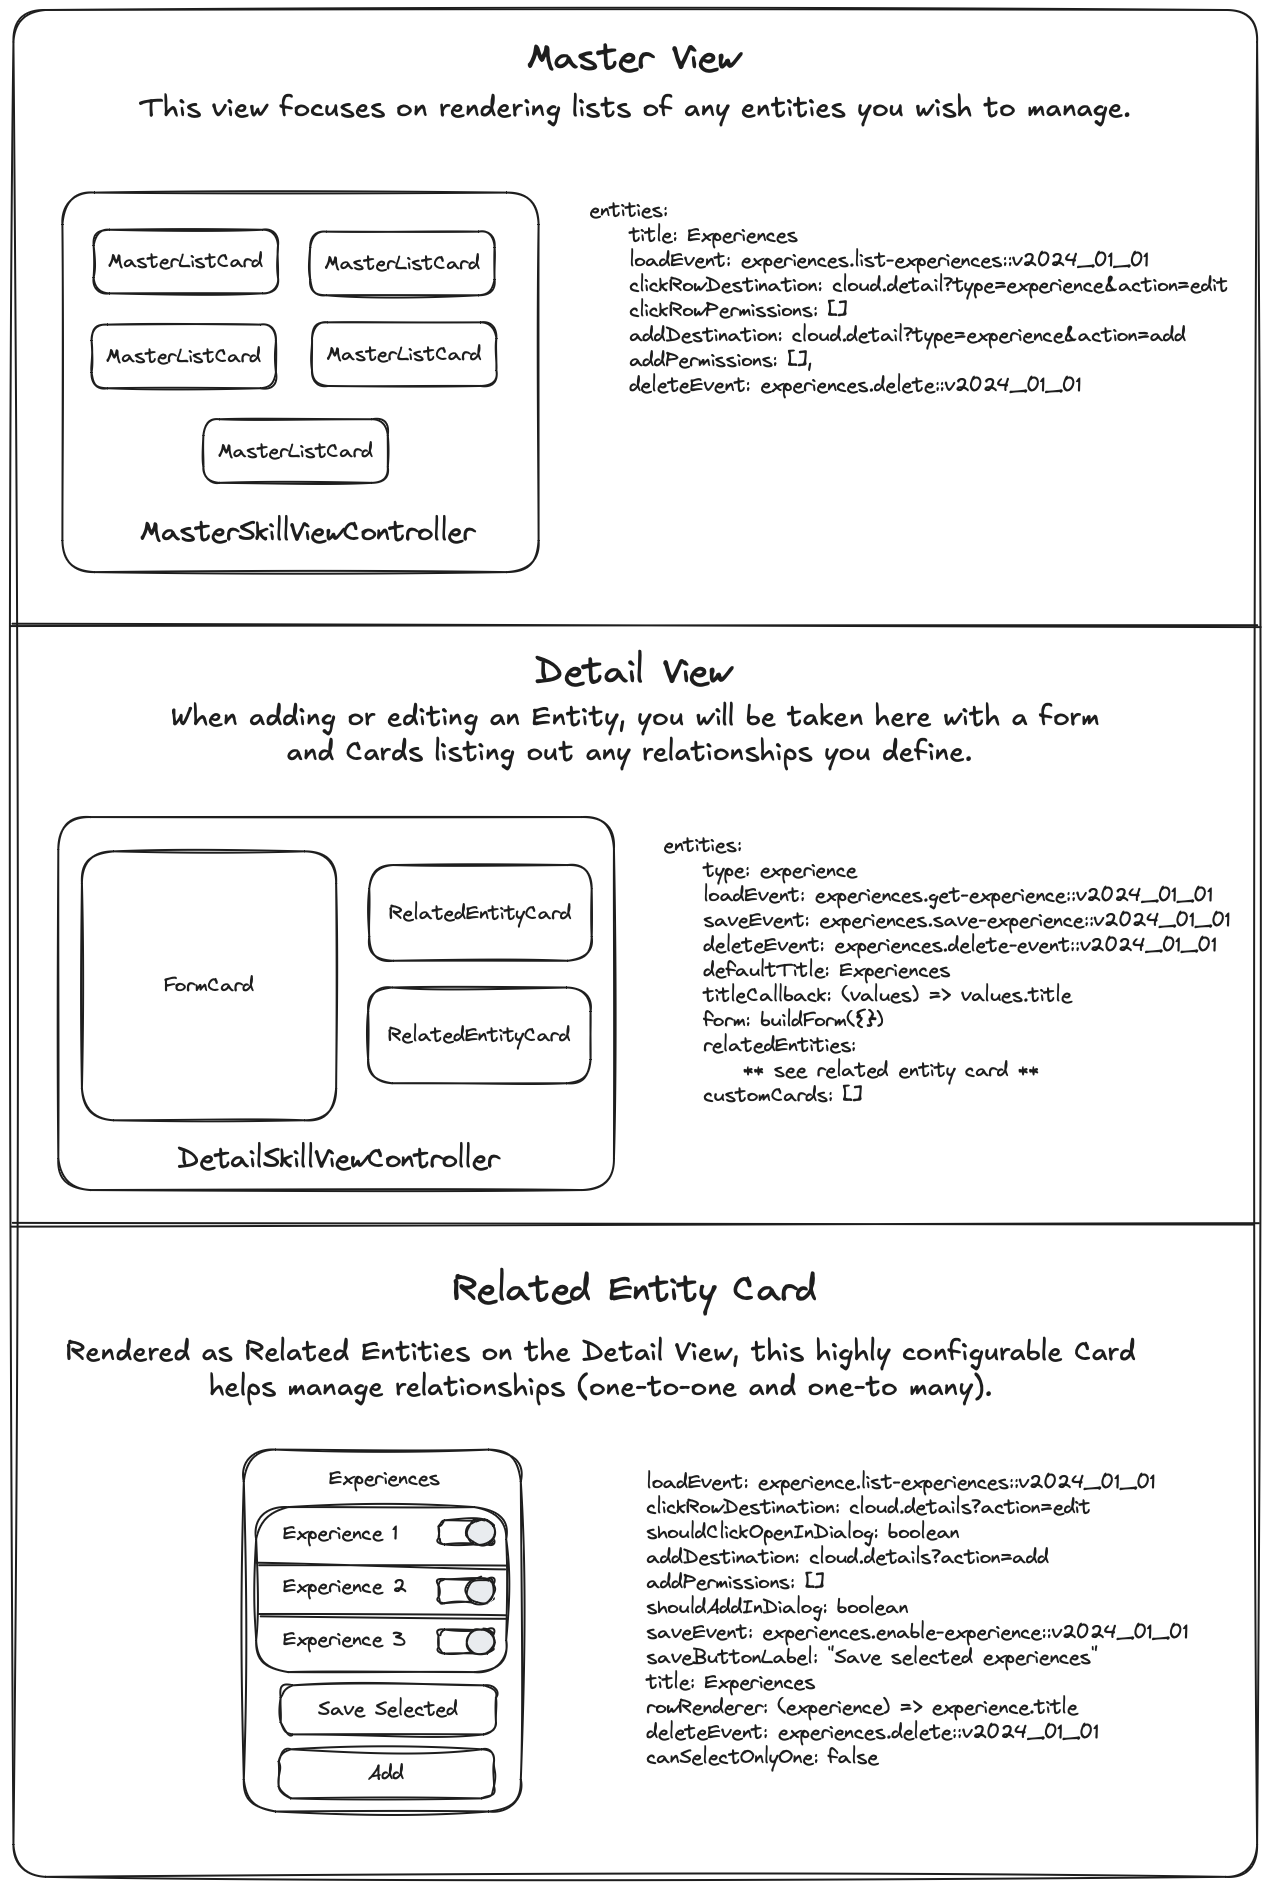
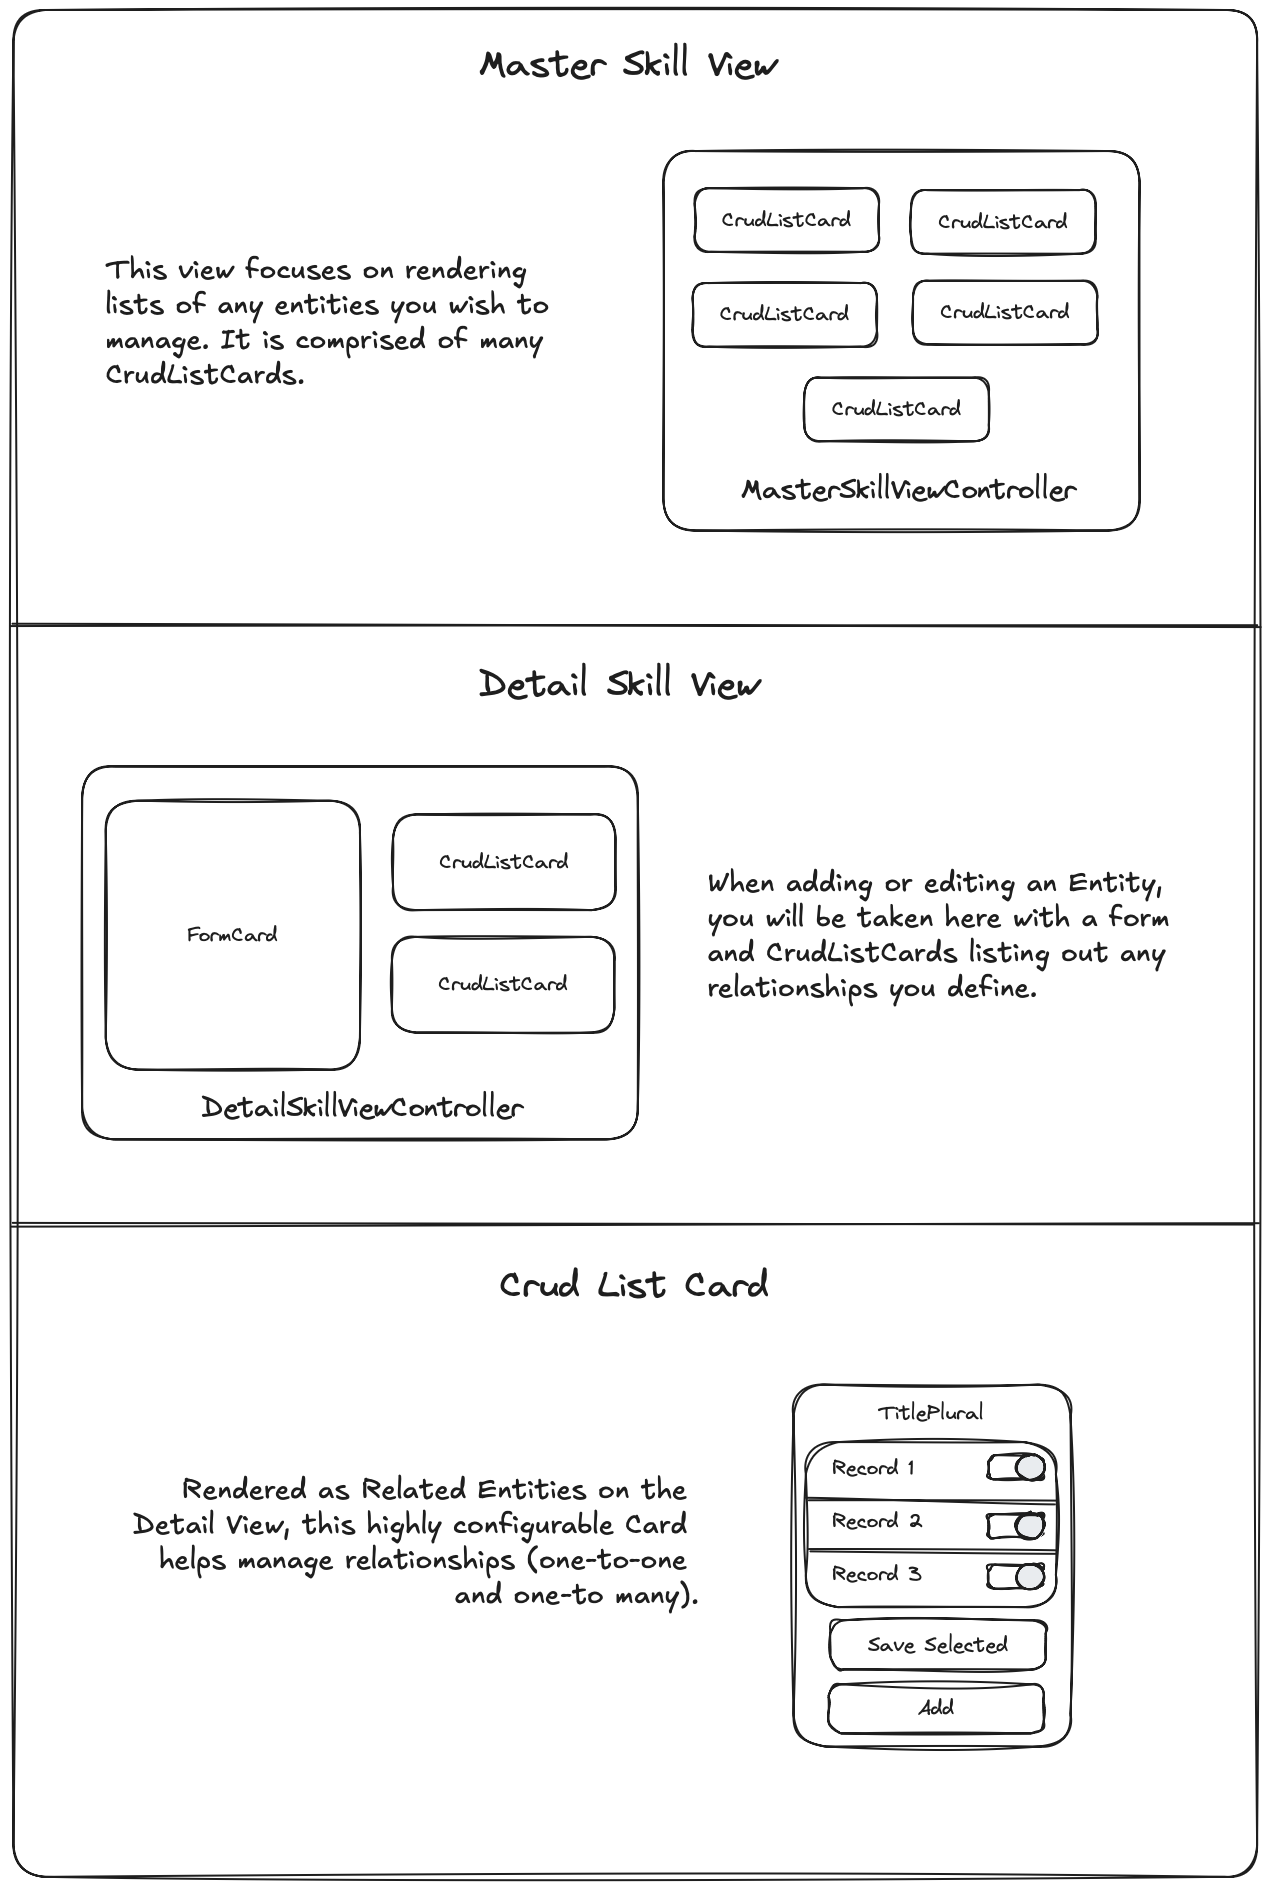
patch: restructure

diff --git a/src/pages/concepts/views/views.md b/src/pages/concepts/views/views.md
@@ -2,11 +2,11 @@
 
 `Views` are the building blocks of the front-end experience in Spruce. Every `Skill` can register `Skill Views` that are comprised of `CardViewControllers`. By default, the a skill's `RootSkillViewController` is the first view that is rendered. 
 
-<img style="margin:0 auto; display:block;" src="../../assets/img/diagrams/skill_view_with_cards.png">
+<img style="margin:0 auto; display:block;" src="../../assets/img/concepts/skill_view_with_cards.png">
 
 A `CardViewController` has a `CardHeader`, `CardBody`, and `CardFooter`. The `CardBody` is comprised of many `CardSections`. See the diagrams below to understand how cards are constructed.
 
-<img style="margin:0 auto; display:block;" src="../../assets/img/diagrams/skill_view_and_card.png">
+<img style="margin:0 auto; display:block;" src="../../assets/img/concepts/skill_view_and_card.png">
 
 Every other type of `ViewController` (listed below) is rendered inside a `CardSection`. This allows for a consistent look and feel across all views in the Spruce ecosystem.
 
@@ -28,5 +28,7 @@ Every other type of `ViewController` (listed below) is rendered inside a `CardSe
 {% include_raw "crud.md" "concepts/views" %}
 
 {% include_raw "rendering-location-address.md" "concepts/views" %}
+
+{% include_raw "navigation.md" "concepts/navigation" %}
 
 {% include_raw "view-controller-plugins.md" "concepts/views" %}

diff --git a/src/pages/getting-started/frameworks/ios.md b/src/pages/getting-started/frameworks/ios.md
@@ -101,7 +101,7 @@ export default class RootSkillViewController extends AbstractSkillViewController
 
 When a browser or native app loads your Skill, it will start by hitting it's `RootSkillViewController`. You can execute code at each stage by implementing a method by the name of the stage.
 
-<img src="../../../assets/img/diagrams/skill_view_lifecycle.png">
+<img src="../../../assets/img/concepts/skill_view_lifecycle.png">
 
 ### UI Design
 

diff --git a/src/pages/getting-started/from-scratch.md b/src/pages/getting-started/from-scratch.md
@@ -64,7 +64,7 @@ Spruce has been fully integrated into Visual Studio Code. It's free, open-source
 
 When a browser or native app loads your Skill, it will start by hitting it's `RootSkillViewController`. You can execute code at each stage by implementing a method by the name of the stage.
 
-<img src="../../assets/img/diagrams/skill_view_lifecycle.png">
+<img src="../../assets/img/concepts/skill_view_lifecycle.png">
 
 ### UI Design
 

diff --git a/src/pages/concepts/views/skill-view-lifecycle.md b/src/pages/concepts/views/skill-view-lifecycle.md
@@ -1,3 +1,3 @@
 ## Skill View Lifecycle
 
-<img src="../../assets/img/diagrams/skill_view_lifecycle.png">
+<img src="../../assets/img/concepts/skill_view_lifecycle.png">

diff --git a/src/pages/concepts/views/navigation.md b/src/pages/concepts/views/navigation.md
@@ -1,0 +1,3 @@
+## Navigation
+
+The navigation is rendered in the Control Bar. The Control Bar
